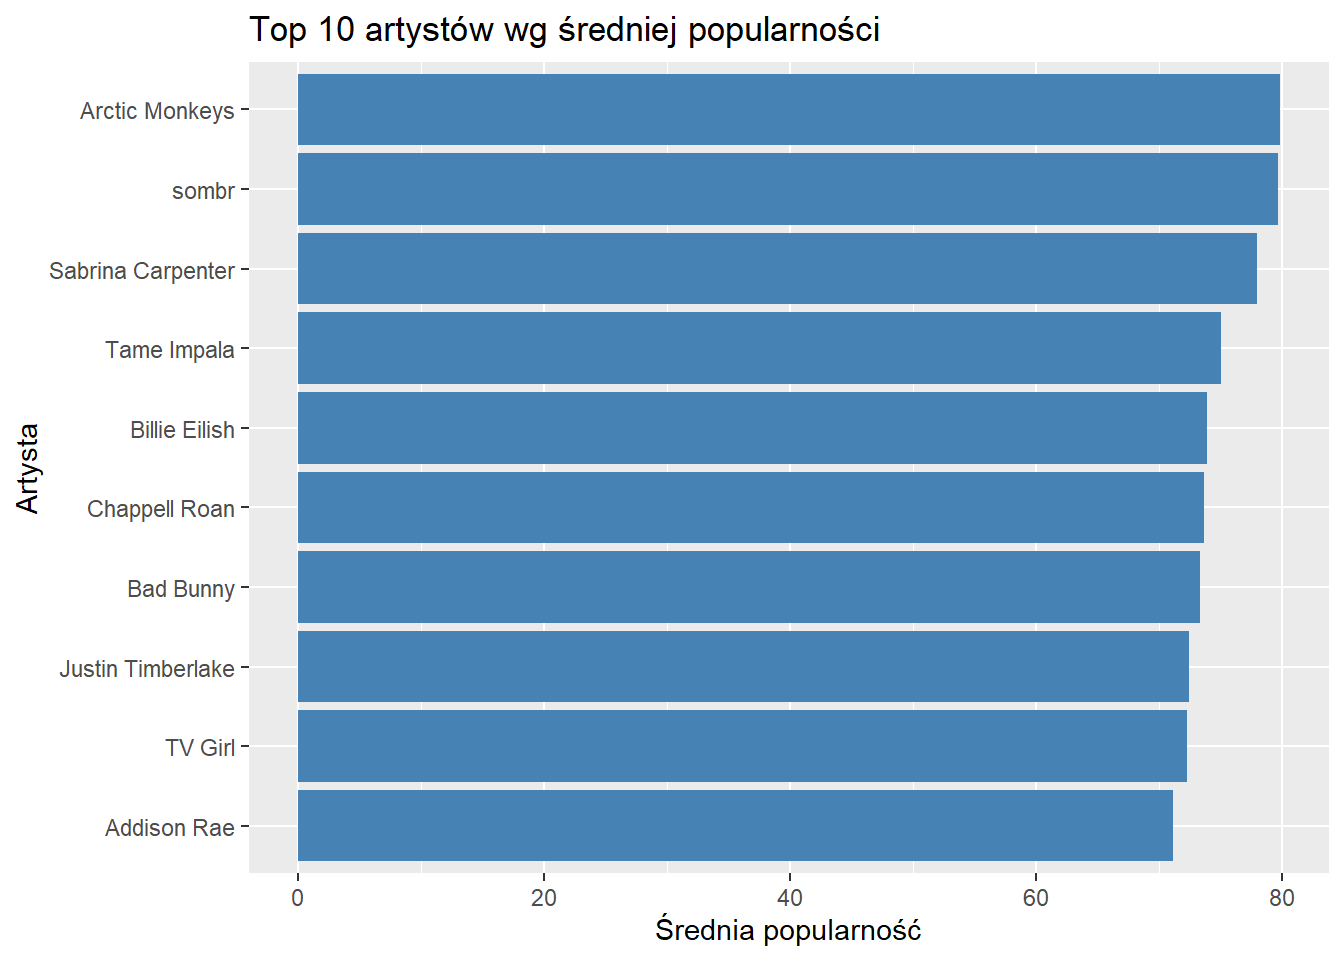
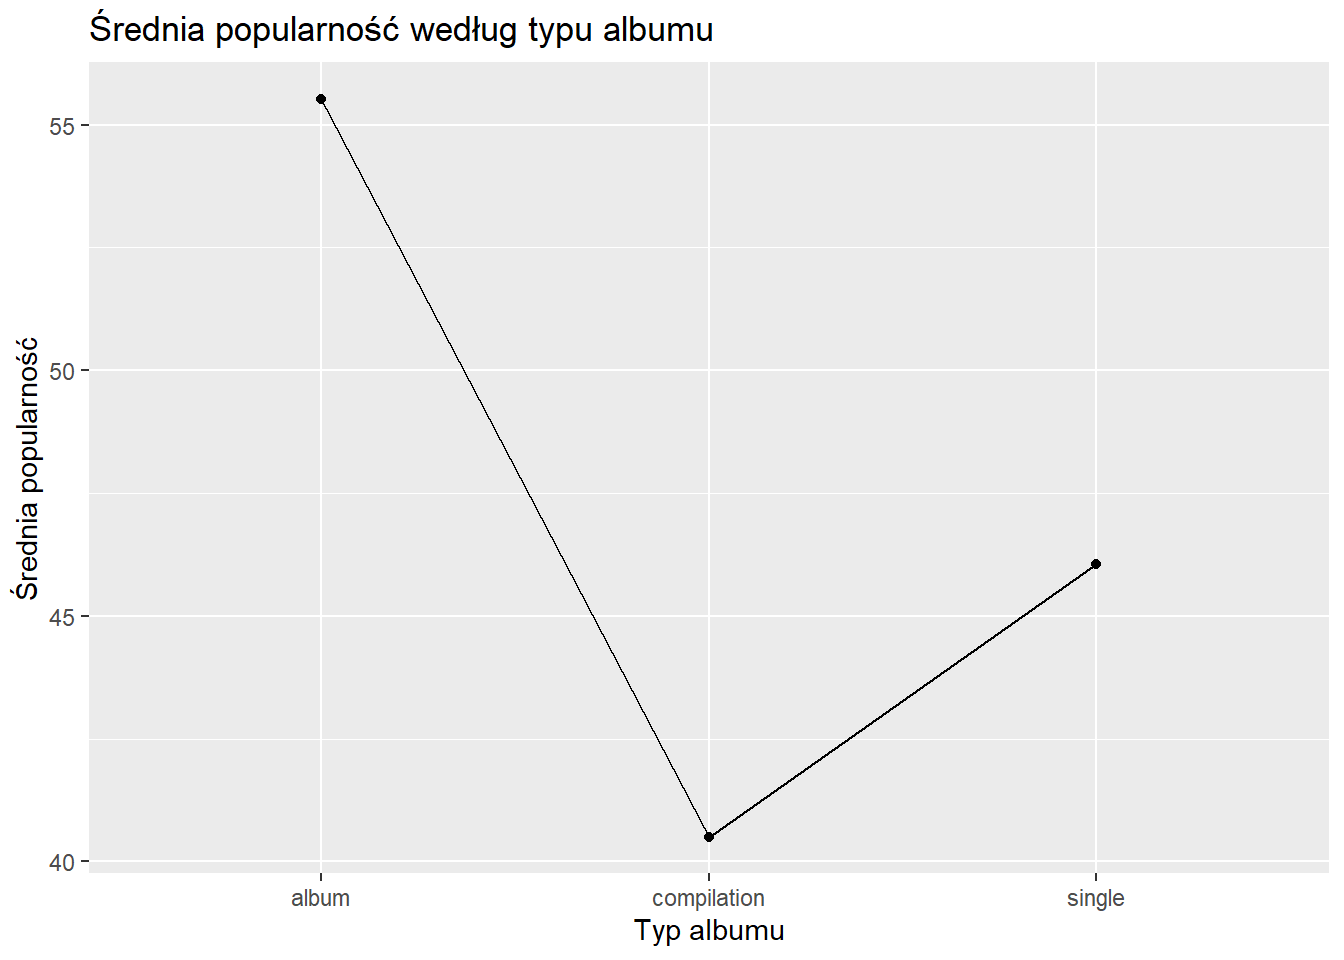
Ostani szlif

diff --git a/docs/analiza.html b/docs/analiza.html
@@ -515,15 +515,15 @@ project makes it easier to run your code on other machines.</p>
 <div class="panel panel-default">
 <div class="panel-heading">
 <p class="panel-title">
-<a data-toggle="collapse" data-parent="#workflowr-checks" href="#strongRepositoryversionstrongahrefhttpsgithubcombartosikadam67projekttree5b7796f8558a9b8f5e0f1f5a04876f88dfbeb7catargetblank5b7796fa">
+<a data-toggle="collapse" data-parent="#workflowr-checks" href="#strongRepositoryversionstrongahrefhttpsgithubcombartosikadam67projekttree3bab20cee2cd4512688a352bc07da8a9aeba31edtargetblank3bab20ca">
 <span class="glyphicon glyphicon-ok text-success"
 aria-hidden="true"></span> <strong>Repository version:</strong>
-<a href="https://github.com/bartosikadam67/projekt/tree/5b7796f8558a9b8f5e0f1f5a04876f88dfbeb7ca" target="_blank">5b7796f</a>
+<a href="https://github.com/bartosikadam67/projekt/tree/3bab20cee2cd4512688a352bc07da8a9aeba31ed" target="_blank">3bab20c</a>
 </a>
 </p>
 </div>
 <div
[2 lines of base64/hex data omitted]
 class="panel-collapse collapse">
 <div class="panel-body">
 <p>
@@ -533,7 +533,7 @@ reproducibility.
 </p>
 <p>
 The results in this page were generated with repository version
-<a href="https://github.com/bartosikadam67/projekt/tree/5b7796f8558a9b8f5e0f1f5a04876f88dfbeb7ca" target="_blank">5b7796f</a>.
+<a href="https://github.com/bartosikadam67/projekt/tree/3bab20cee2cd4512688a352bc07da8a9aeba31ed" target="_blank">3bab20c</a>.
 See the <em>Past versions</em> tab to see a history of the changes made
 to the R Markdown and HTML files.
 </p>
@@ -552,7 +552,6 @@ Ignored files:
     Ignored:    .Rproj.user/
 
 Unstaged changes:
-    Modified:   analysis/_site.yml
     Modified:   analysis/analiza.Rmd
 
 </code></pre>
@@ -598,6 +597,40 @@ Message
 </tr>
 </thead>
 <tbody>
+<tr>
+<td>
+Rmd
+</td>
+<td>
+<a href="https://github.com/bartosikadam67/projekt/blob/2e896eb5a7d0371603b029b9eaaa2e258b204845/analysis/analiza.Rmd" target="_blank">2e896eb</a>
+</td>
+<td>
+bartosikadam67
+</td>
+<td>
+2026-01-18
+</td>
+<td>
+nowe
+</td>
+</tr>
+<tr>
+<td>
+html
+</td>
+<td>
+<a href="https://rawcdn.githack.com/bartosikadam67/projekt/2e896eb5a7d0371603b029b9eaaa2e258b204845/docs/analiza.html" target="_blank">2e896eb</a>
+</td>
+<td>
+bartosikadam67
+</td>
+<td>
+2026-01-18
+</td>
+<td>
+nowe
+</td>
+</tr>
 <tr>
 <td>
 Rmd
@@ -698,7 +731,6 @@ wizualizacja wybranych zależności.</p>
   liczba_utworow srednia_popularnosc mediana_popularnosc srednia_dlugosc_ms
            &lt;int&gt;               &lt;dbl&gt;               &lt;dbl&gt;              &lt;dbl&gt;
 1           8778                52.2                  58             210158</code></pre>
-<pre><code>[1] 0.1071161</code></pre>
 <hr />
 </div>
 <div id="przekształcenia-danych-dplyr" class="section level3">
@@ -736,6 +768,15 @@ class="section level4">
 <h2>Wizualizacje</h2>
 <div id="wykres-słupkowy-top-10-artystów" class="section level3">
 <h3>Wykres słupkowy – Top 10 artystów</h3>
+<p><img src="figure/analiza.Rmd/unnamed-chunk-6-1.png" width="672" style="display: block; margin: auto;" /></p>
+<p><em>Wykres słupkowy przedstawia dziesięciu artystów o najwyższej
+średniej popularności utworów (przy założeniu minimum 10 utworów w
+zbiorze). Widoczne są wyraźne różnice pomiędzy artystami, co wskazuje,
+że popularność utworów w dużym stopniu zależy od wykonawcy.</em></p>
+</div>
+<div id="wykres-liniowy-średnia-popularność-vs-typ-albumu"
+class="section level3">
+<h3>Wykres liniowy – średnia popularność vs typ albumu</h3>
 <p><img src="figure/analiza.Rmd/unnamed-chunk-7-1.png" width="672" style="display: block; margin: auto;" /></p>
 <p>
 <button type="button" class="btn btn-default btn-xs btn-workflowr btn-workflowr-fig" data-toggle="collapse" data-target="#fig-unnamed-chunk-7-1">
@@ -774,14 +815,13 @@ bartosikadam67
 </table>
 </div>
 </div>
-<p><em>Wykres słupkowy przedstawia dziesięciu artystów o najwyższej
-średniej popularności utworów (przy założeniu minimum 10 utworów w
-zbiorze). Widoczne są wyraźne różnice pomiędzy artystami, co wskazuje,
-że popularność utworów w dużym stopniu zależy od wykonawcy.</em></p>
+<p><em>Wykres liniowy pokazuje średnią popularność utworów w zależności
+od typu albumu. Można zauważyć różnice pomiędzy poszczególnymi typami
+wydawnictw, co sugeruje, że forma publikacji (np. singiel lub album)
+może mieć wpływ na odbiór utworów przez słuchaczy.</em></p>
 </div>
-<div id="wykres-liniowy-średnia-popularność-vs-typ-albumu"
-class="section level3">
-<h3>Wykres liniowy – średnia popularność vs typ albumu</h3>
+<div id="histogram-długość-utworów" class="section level3">
+<h3>Histogram – długość utworów</h3>
 <p><img src="figure/analiza.Rmd/unnamed-chunk-8-1.png" width="672" style="display: block; margin: auto;" /></p>
 <p>
 <button type="button" class="btn btn-default btn-xs btn-workflowr btn-workflowr-fig" data-toggle="collapse" data-target="#fig-unnamed-chunk-8-1">
@@ -808,51 +848,6 @@ Date
 <tr>
 <td>
 <a href="https://github.com/bartosikadam67/projekt/blob/31b083a5de1247478be57ed142185c6c8ff987fb/docs/figure/analiza.Rmd/unnamed-chunk-8-1.png" target="_blank">31b083a</a>
-</td>
-<td>
-bartosikadam67
-</td>
-<td>
-2026-01-13
-</td>
-</tr>
-</tbody>
-</table>
-</div>
-</div>
-<p><em>Wykres liniowy pokazuje średnią popularność utworów w zależności
-od typu albumu. Można zauważyć różnice pomiędzy poszczególnymi typami
-wydawnictw, co sugeruje, że forma publikacji (np. singiel lub album)
-może mieć wpływ na odbiór utworów przez słuchaczy.</em></p>
-</div>
-<div id="histogram-długość-utworów" class="section level3">
-<h3>Histogram – długość utworów</h3>
-<p><img src="figure/analiza.Rmd/unnamed-chunk-9-1.png" width="672" style="display: block; margin: auto;" /></p>
-<p>
-<button type="button" class="btn btn-default btn-xs btn-workflowr btn-workflowr-fig" data-toggle="collapse" data-target="#fig-unnamed-chunk-9-1">
-Past versions of unnamed-chunk-9-1.png
-</button>
-</p>
-<div id="fig-unnamed-chunk-9-1" class="collapse">
-<div class="table-responsive">
-<table class="table table-condensed table-hover">
-<thead>
-<tr>
-<th>
-Version
-</th>
-<th>
-Author
-</th>
-<th>
-Date
-</th>
-</tr>
-</thead>
-<tbody>
-<tr>
-<td>
-<a href="https://github.com/bartosikadam67/projekt/blob/31b083a5de1247478be57ed142185c6c8ff987fb/docs/figure/analiza.Rmd/unnamed-chunk-9-1.png" target="_blank">31b083a</a>
 </td>
 <td>
 bartosikadam67

diff --git a/docs/about.html b/docs/about.html
@@ -360,7 +360,7 @@ div.tocify {
 <p>
 <button type="button" class="btn btn-default btn-workflowr btn-workflowr-report" data-toggle="collapse" data-target="#workflowr-report">
 <span class="glyphicon glyphicon-list" aria-hidden="true"></span>
-workflowr <span class="glyphicon glyphicon-ok text-success"
+workflowr <span class="glyphicon glyphicon-exclamation-sign text-danger"
 aria-hidden="true"></span>
 </button>
 </p>
@@ -371,8 +371,8 @@ aria-hidden="true"></span>
 </li>
 <li>
 <a data-toggle="tab" href="#checks"> Checks <span
-class="glyphicon glyphicon-ok text-success" aria-hidden="true"></span>
-</a>
+class="glyphicon glyphicon-exclamation-sign text-danger"
+aria-hidden="true"></span> </a>
 </li>
 <li>
 <a data-toggle="tab" href="#versions">Past versions</a>
@@ -385,9 +385,9 @@ class="glyphicon glyphicon-ok text-success" aria-hidden="true"></span>
 </p>
 <p>
 <strong>Checks:</strong> <span
-class="glyphicon glyphicon-ok text-success" aria-hidden="true"></span> 2
+class="glyphicon glyphicon-ok text-success" aria-hidden="true"></span> 1
 <span class="glyphicon glyphicon-exclamation-sign text-danger"
-aria-hidden="true"></span> 0
+aria-hidden="true"></span> 1
 </p>
 <p>
 <strong>Knit directory:</strong> <code>projekt/</code> <span
@@ -410,33 +410,36 @@ versions</em> tab lists the development history.
 <div class="panel panel-default">
 <div class="panel-heading">
 <p class="panel-title">
-<a data-toggle="collapse" data-parent="#workflowr-checks" href="#strongRMarkdownfilestronguptodate">
-<span class="glyphicon glyphicon-ok text-success"
-aria-hidden="true"></span> <strong>R Markdown file:</strong> up-to-date
-</a>
+<a data-toggle="collapse" data-parent="#workflowr-checks" href="#strongRMarkdownfilestronguncommittedchanges">
+<span class="glyphicon glyphicon-exclamation-sign text-danger"
+aria-hidden="true"></span> <strong>R Markdown file:</strong> uncommitted
+changes </a>
 </p>
 </div>
-<div id="strongRMarkdownfilestronguptodate"
+<div id="strongRMarkdownfilestronguncommittedchanges"
 class="panel-collapse collapse">
 <div class="panel-body">
-<p>Great! Since the R Markdown file has been committed to the Git
-repository, you know the exact version of the code that produced these
-results.</p>
+<p>The R Markdown file has unstaged changes. To know which version of
+the R Markdown file created these results, you’ll want to first commit
+it to the Git repo. If you’re still working on the analysis, you can
+ignore this warning. When you’re finished, you can run
+<code>wflow_publish</code> to commit the R Markdown file and build the
+HTML.</p>
 </div>
 </div>
 </div>
 <div class="panel panel-default">
 <div class="panel-heading">
 <p class="panel-title">
-<a data-toggle="collapse" data-parent="#workflowr-checks" href="#strongRepositoryversionstrongahrefhttpsgithubcombartosikadam67projekttree99544f04d09d1fa643fe5373e259dc5d47cc0ccdtargetblank99544f0a">
+<a data-toggle="collapse" data-parent="#workflowr-checks" href="#strongRepositoryversionstrongahrefhttpsgithubcombartosikadam67projekttree3bab20cee2cd4512688a352bc07da8a9aeba31edtargetblank3bab20ca">
 <span class="glyphicon glyphicon-ok text-success"
 aria-hidden="true"></span> <strong>Repository version:</strong>
-<a href="https://github.com/bartosikadam67/projekt/tree/99544f04d09d1fa643fe5373e259dc5d47cc0ccd" target="_blank">99544f0</a>
+<a href="https://github.com/bartosikadam67/projekt/tree/3bab20cee2cd4512688a352bc07da8a9aeba31ed" target="_blank">3bab20c</a>
 </a>
 </p>
 </div>
 <div
[2 lines of base64/hex data omitted]
 class="panel-collapse collapse">
 <div class="panel-body">
 <p>
@@ -446,7 +449,7 @@ reproducibility.
 </p>
 <p>
 The results in this page were generated with repository version
-<a href="https://github.com/bartosikadam67/projekt/tree/99544f04d09d1fa643fe5373e259dc5d47cc0ccd" target="_blank">99544f0</a>.
+<a href="https://github.com/bartosikadam67/projekt/tree/3bab20cee2cd4512688a352bc07da8a9aeba31ed" target="_blank">3bab20c</a>.
 See the <em>Past versions</em> tab to see a history of the changes made
 to the R Markdown and HTML files.
 </p>
@@ -463,6 +466,10 @@ were generated:
 Ignored files:
     Ignored:    .Rhistory
     Ignored:    .Rproj.user/
+
+Unstaged changes:
+    Modified:   analysis/about.Rmd
+    Modified:   analysis/analiza.Rmd
 
 </code></pre>
 <p>
@@ -506,6 +513,23 @@ Message
 </tr>
 </thead>
 <tbody>
+<tr>
+<td>
+html
+</td>
+<td>
+<a href="https://rawcdn.githack.com/bartosikadam67/projekt/3bab20cee2cd4512688a352bc07da8a9aeba31ed/docs/about.html" target="_blank">3bab20c</a>
+</td>
+<td>
+bartosikadam67
+</td>
+<td>
+2026-01-18
+</td>
+<td>
+kkkkk
+</td>
+</tr>
 <tr>
 <td>
 html
@@ -834,15 +858,41 @@ Kaliszu</strong><br />
 <div id="narzędzia-i-programy" class="section level3">
 <h3>Narzędzia i programy</h3>
 <ul>
-<li>Ableton Live</li>
-<li>Microsoft Office</li>
-<li>Visual Studio</li>
+<li><p>Ableton Live</p></li>
+<li><p>Microsoft Office</p></li>
+<li><p>Visual Studio</p></li>
 </ul>
+</div>
+<div id="języki-programowania" class="section level3">
+<h3>Języki programowania</h3>
+<table>
+<thead>
+<tr class="header">
+<th>Nazwa</th>
+<th>Poziom znajomości</th>
+</tr>
+</thead>
+<tbody>
+<tr class="odd">
+<td>Python</td>
+<td>Wysoka znajomość</td>
+</tr>
+<tr class="even">
+<td>C++</td>
+<td>Wysoka znajomość</td>
+</tr>
+<tr class="odd">
+<td>C#</td>
+<td>Umiarkowana znajomość</td>
+</tr>
+</tbody>
+</table>
 </div>
 <div id="języki-obce" class="section level3">
 <h3>Języki obce</h3>
 <ul>
 <li>Angielski – komunikatywny</li>
+<li>Hiszpański - ekspert</li>
 </ul>
 </div>
 <div id="umiejętności-miękkie" class="section level3">
